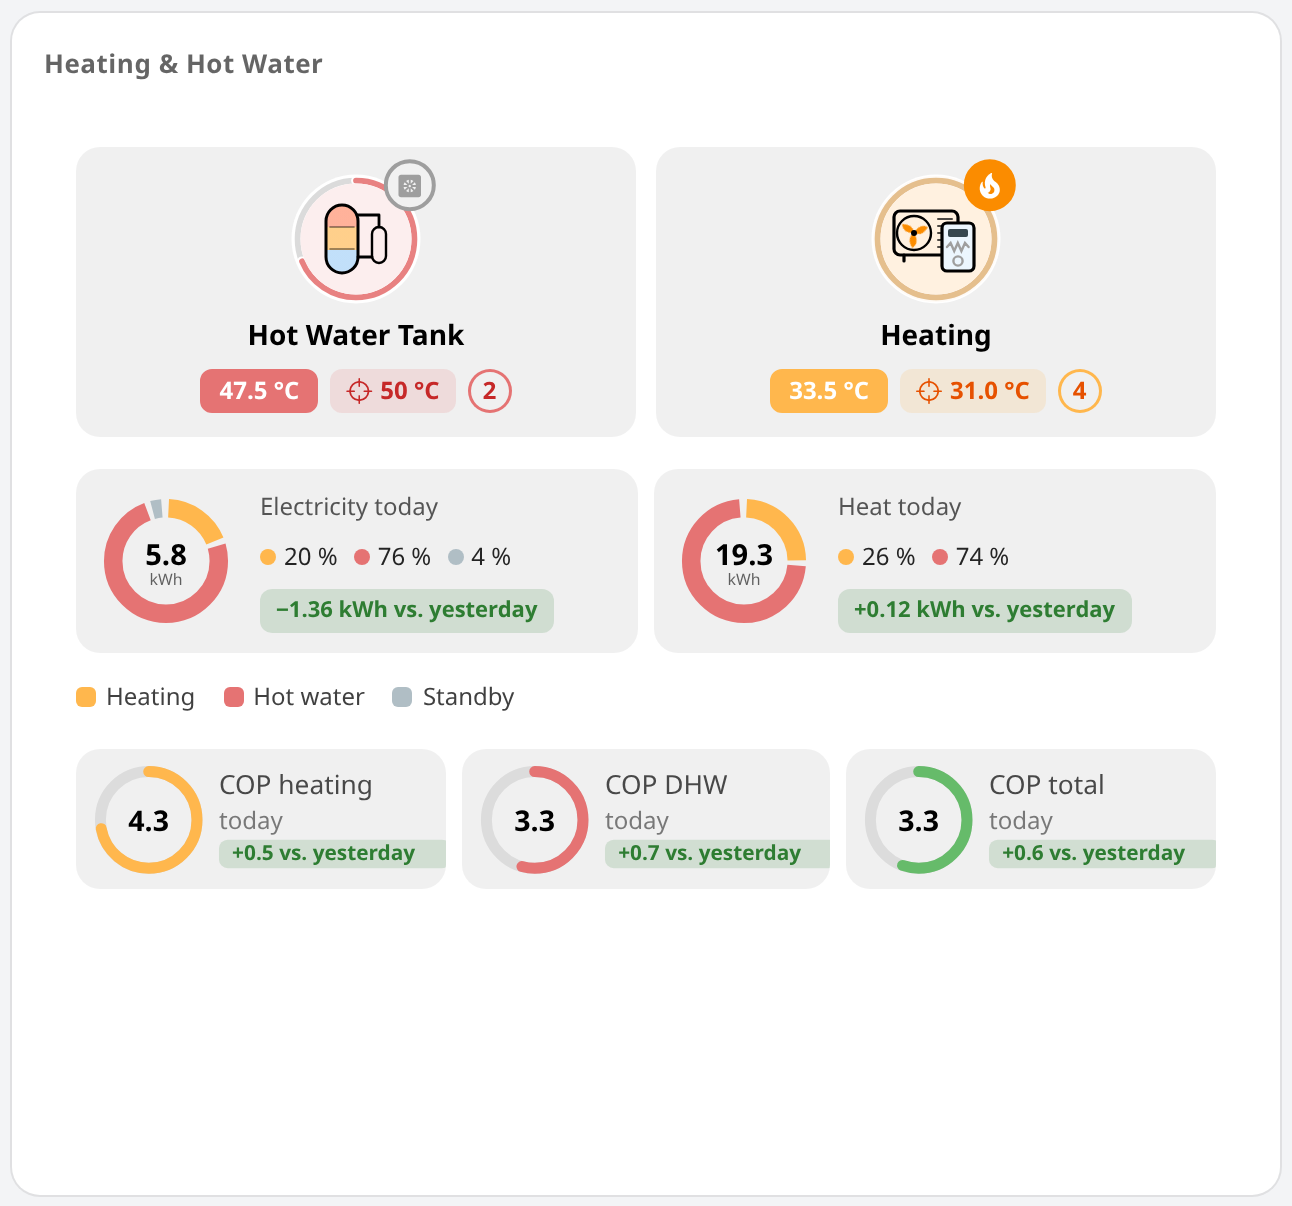
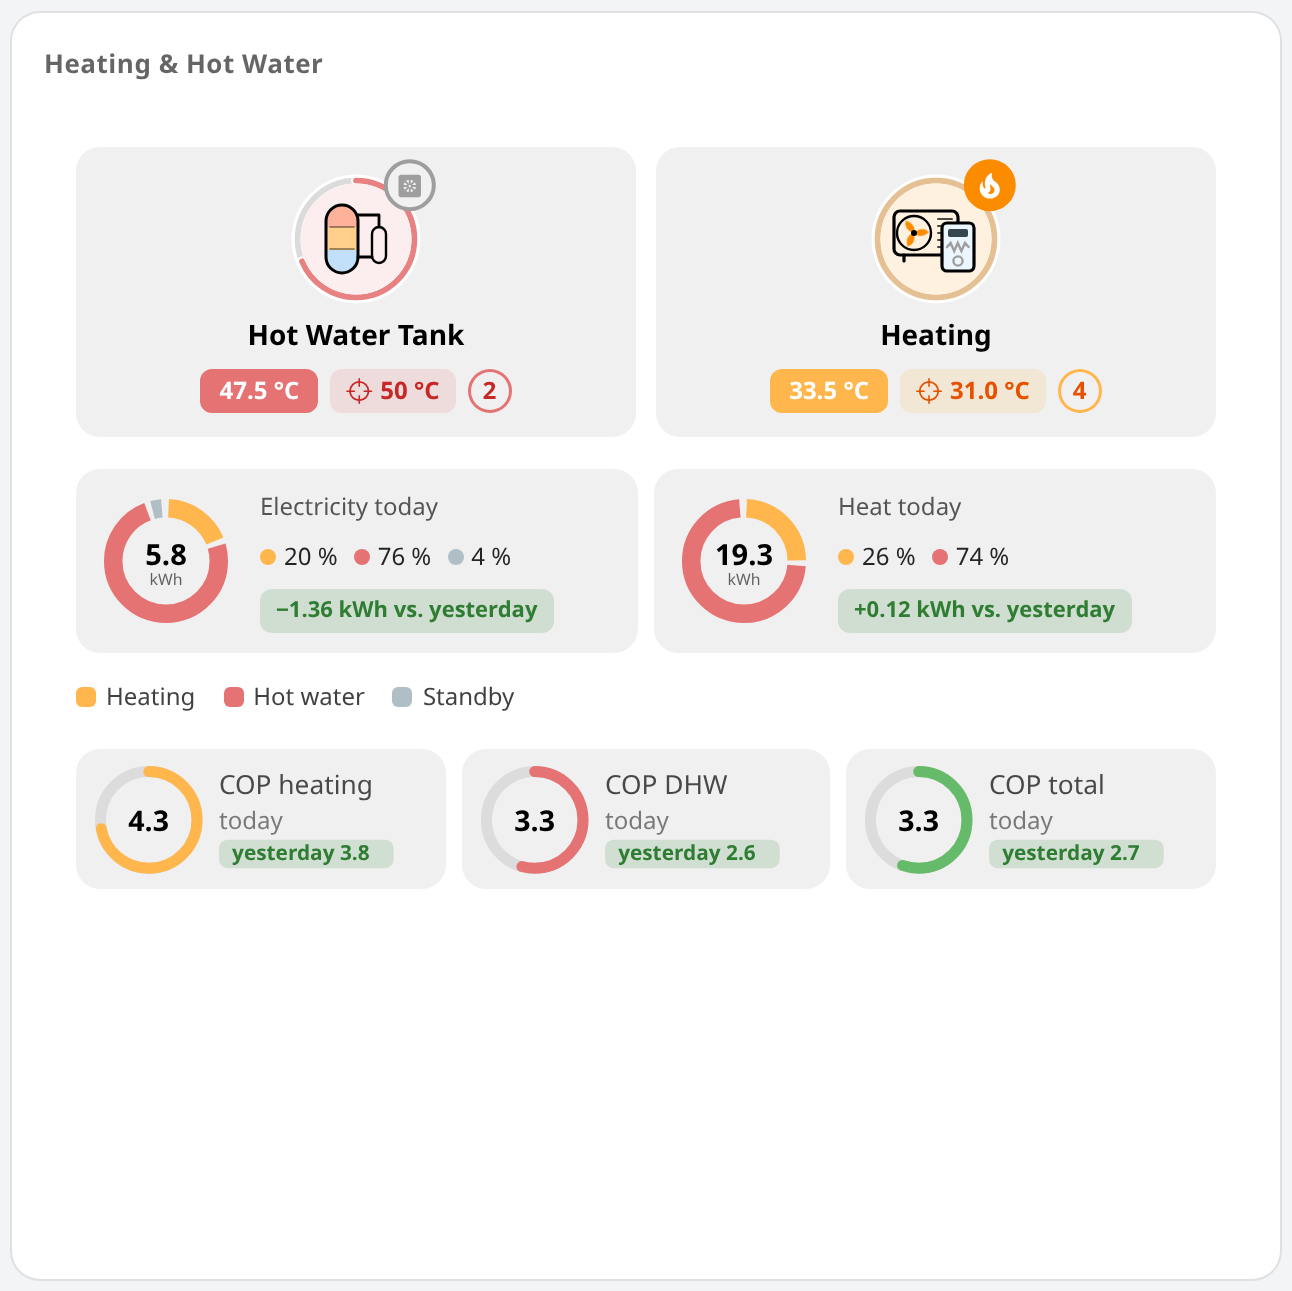
heating-card: the COPs' pills name yesterday's whole day
- The day's COPs (space heating, DHW, total) show yesterday's whole
  day's COP in their pill, "gestern 3,8", as self-consumption and
  self-sufficiency do: against yesterday at this time the pill stayed
  hidden half the night and morning, until yesterday's electricity up
  to this time made a base
- Green or orange once today's electricity of the part reaches 0.05 kWh,
  neutral within 0.1; shown where yesterday's whole day had a base
- day_value_change() replaces value_change() and day_base_ok()
- README text, overview screenshots and the heating card retaken

Changed region(s): [[0.0619, 0.1227, 0.9598, 0.7363], [0.5263, 0.1227, 0.8978, 0.5522], [0.031, 0.0307, 0.2477, 0.0614]]

diff --git a/scripts/openhab-ui/dashboard.py b/scripts/openhab-ui/dashboard.py
@@ -3183,7 +3183,7 @@ def split_ring(title, total_item, parts, better, named=False):
                                   "border-radius": "12px", "background": TILE_BG, "min-width": "0"})
 
 
-# the electricity each day's COP is a ratio of: its pill waits for that to be base enough
+# the electricity each day's COP is a ratio of: its pill shows where yesterday's had a base, coloured once today's has
 COP_BASE = {"espaltherma_dcop": "espaltherma_energy_today", "espaltherma_dcop_space": "espaltherma_energy_space_today",
             "espaltherma_dcop_dhw": "espaltherma_energy_dhw_today"}
 # the value a day's COP fills its ring at, in its tile and its popup
@@ -3206,11 +3206,11 @@ def cop_tile(title, item, color, width="100%", name=None):
                            **stroke(5, color, **{"stroke-dasharray":
                                                   f"=({length} * Math.min(1, {value} / {COP_FULL})).toFixed(1) + ' {length}'"})),
                        svg_text(24, 30, f"={value} > 0 ? {fixed(value, 1)} : '–'", 13, "700"),
-                       # title, heute and today's COP against yesterday's at this time in a pill, as one block in the
-                       # ring's vertical middle, as the energy flow's tiles (user, 2026-10-06)
+                       # title, heute and yesterday's whole day's COP in a pill, as one block in the ring's vertical
+                       # middle, as the energy flow's tiles (user, 2026-10-06; yesterday's whole day since 2026-11-11)
                        svg_text(56, 13, title, 12, anchor="start", opacity="0.7"),
                        svg_text(56, 29, "heute", 11, anchor="start", opacity="0.5"),
-                       svg_pill(56, 34, *value_change(item, 1, base=COP_BASE.get(item)))],
+                       svg_pill(56, 34, *day_value_change(item, 1, base=COP_BASE.get(item)))],
                viewBox="0 0 150 50", width="100%", style={"display": "block", "overflow": "visible", "max-width": "170px",
                                                           "width": width})
     link = comp("oh-link", {**item_modal(item, name or title, color),
@@ -6643,19 +6643,8 @@ def vt_icon_chip(icon, text, cls_expr="'neutral'", visible=None):
                **{**style, "display": "inline-flex", "align-items": "center", "gap": "3px", "padding": "1px 8px 1px 6px"})
 
 
-# a day's COP against yesterday needs a base: yesterday's electricity at this time at least this share of its whole
-# day and this much (kWh); right after midnight a few watt hours made wild COPs; DAY_BASE_MIN also keeps a pill
-# against yesterday neutral below it
-DAY_BASE_SHARE, DAY_BASE_MIN = 0.05, 0.05
-
-
-def day_base_ok(item):
-    """Whether yesterday's value of a day counter at this time is base enough for a day's COP against yesterday
-    (DAY_BASE_SHARE of yesterday's whole day, d in the history, and DAY_BASE_MIN)."""
-    track_history(item, c=True)
-    y, d = vt_hv(item, "y"), vt_hv(item, "d")
-    return (f"({vt_has(y)} && Number({y}) >= Math.max({DAY_BASE_MIN}, "
-            f"{DAY_BASE_SHARE} * (Number({d}) || 0)))")
+# a day counter below this (kWh) is no base: a pill against yesterday stays neutral, a day's COP of it uncoloured
+DAY_BASE_MIN = 0.05
 
 
 def change_text(now, then, unit, digits):
@@ -6685,19 +6674,23 @@ def day_change(item, better="less", unit="kWh", digits=2):
             f"={vt_has(vt_hv(item, 'y'))}")
 
 
-def value_change(item, digits=1, unit="", base=None):
-    """A value today against its value yesterday at this time as (text, class, visible) for a pill: the difference
-    itself, as for a day's COP; green where it rose. base: the day counter the value is a ratio of (a COP's
-    electricity), the pill shows only once it is base enough (day_base_ok) today and yesterday."""
+def day_value_change(item, digits=1, base=None):
+    """A day's value (a COP) against yesterday's whole day as (text, class, visible) for a pill, "gestern 3,8", as the
+    energy flow's shares stand (user, 2026-11-11: against yesterday at this time, the COPs' pills stayed hidden half
+    the night and morning, as yesterday's electricity up to this time made no base); green where today's value so far
+    is higher, orange where lower, neutral while today's base is below DAY_BASE_MIN. base: the day counter the value is
+    a ratio of (a COP's electricity); the pill shows only where yesterday's whole day had a base."""
     track_history(item, c=True)
-    y = f"Number({vt_hv(item, 'y')})"
-    d = f"({num(item)} - {y})"
-    small = 0.5 * 10 ** -digits
-    cls = f"(Math.abs({d}) < {2 * small} ? 'neutral' : {d} > 0 ? 'good' : 'warn')"
-    text = (f"=(Math.abs({d}) < {small} ? '±0' : ({d} > 0 ? '+' : '−') + {fixed(f'Math.abs({d})', digits)}) + "
-            f"'{unit} zu gestern'")
-    guard = f" && {day_base_ok(base)} && {num(base)} >= {DAY_BASE_MIN}" if base else ""
-    return text, cls, f"={vt_has(vt_hv(item, 'y'))} && {y} > 0{guard}"
+    d = f"Number({vt_hv(item, 'd')})"
+    diff = f"({num(item)} - {d})"
+    today_ok = f"{num(base)} >= {DAY_BASE_MIN}" if base else "true"
+    cls = (f"(!({today_ok}) || {num(item)} <= 0 || Math.abs({diff}) < {10 ** -digits} ? 'neutral' : "
+           f"{diff} > 0 ? 'good' : 'warn')")
+    known = f"{vt_has(vt_hv(item, 'd'))} && {d} > 0"
+    if base:
+        track_history(base, c=True)
+        known += f" && Number({vt_hv(base, 'd')}) >= {DAY_BASE_MIN}"
+    return f"='gestern ' + {fixed(d, digits)}", cls, f"={known}"
 
 
 def points_change(own, base, minus=None):

diff --git a/scripts/openhab-ui/make_readme.py b/scripts/openhab-ui/make_readme.py
@@ -70,7 +70,8 @@ OVERVIEW = [
      "total inside, beside each the parts' shares in per cent (hovering a part lifts it everywhere) and today against "
      "yesterday at this time in a pill (the difference in kWh), "
      "and today's COPs of space heating, DHW and in total in one row as rings like the energy "
-     "flow's self-consumption, each with today against yesterday at this time in a pill under its title; a tap on "
+     "flow's self-consumption, each with yesterday's whole day's COP in a pill under its title, green or orange "
+     "once today has a base; a tap on "
      "one opens the item popup with that COP large inside its ring, beside it today's heat and electricity it is "
      "the ratio of and yesterday's whole day, and its course over the day. "
      "While the tank charges or the heating runs, a line under its tile says since when. A round badge right of "

diff --git a/README.md b/README.md
@@ -324,16 +324,16 @@ or heating is switched on, outlined while off, beside a tinted pill with the set
 opens the heat pump's page of my installation. Below them today's electricity and heat of the heat pump as two rings of
 space heating, DHW and standby in small cards, the total inside, beside each the parts' shares in per cent (hovering a
 part lifts it everywhere) and today against yesterday at this time in a pill (the difference in kWh), and today's COPs
-of space heating, DHW and in total in one row as rings like the energy flow's self-consumption, each with today against
-yesterday at this time in a pill under its title; a tap on one opens the item popup with that COP large inside its ring,
-beside it today's heat and electricity it is the ratio of and yesterday's whole day, and its course over the day. While
-the tank charges or the heating runs, a line under its tile says since when. A round badge right of each tile's pills
-counts today's compressor runs in the tile's mode: every stretch of 2 minutes or more in which the compressor runs with
-the three-way valve on that side, so a charge that takes over a running heating run counts for hot water (the restarts
-of a defrost do not count), outlined in the tile's colour, grey at none; while the cycle guard of my installation holds
-back the next start after a stop (it lowers the leaving water setpoint until the return water has cooled well below the
-heating curve, so that the run after it lasts), a line under the heating tile says so. The screenshots show it with the
-heat pump card's demo values.
+of space heating, DHW and in total in one row as rings like the energy flow's self-consumption, each with yesterday's
+whole day's COP in a pill under its title, green or orange once today has a base; a tap on one opens the item popup with
+that COP large inside its ring, beside it today's heat and electricity it is the ratio of and yesterday's whole day, and
+its course over the day. While the tank charges or the heating runs, a line under its tile says since when. A round
+badge right of each tile's pills counts today's compressor runs in the tile's mode: every stretch of 2 minutes or more
+in which the compressor runs with the three-way valve on that side, so a charge that takes over a running heating run
+counts for hot water (the restarts of a defrost do not count), outlined in the tile's colour, grey at none; while the
+cycle guard of my installation holds back the next start after a stop (it lowers the leaving water setpoint until the
+return water has cooled well below the heating curve, so that the run after it lasts), a line under the heating tile
+says so. The screenshots show it with the heat pump card's demo values.
 
 Needs `flow-node`, `item-popup`, `trip-popup`.
 
